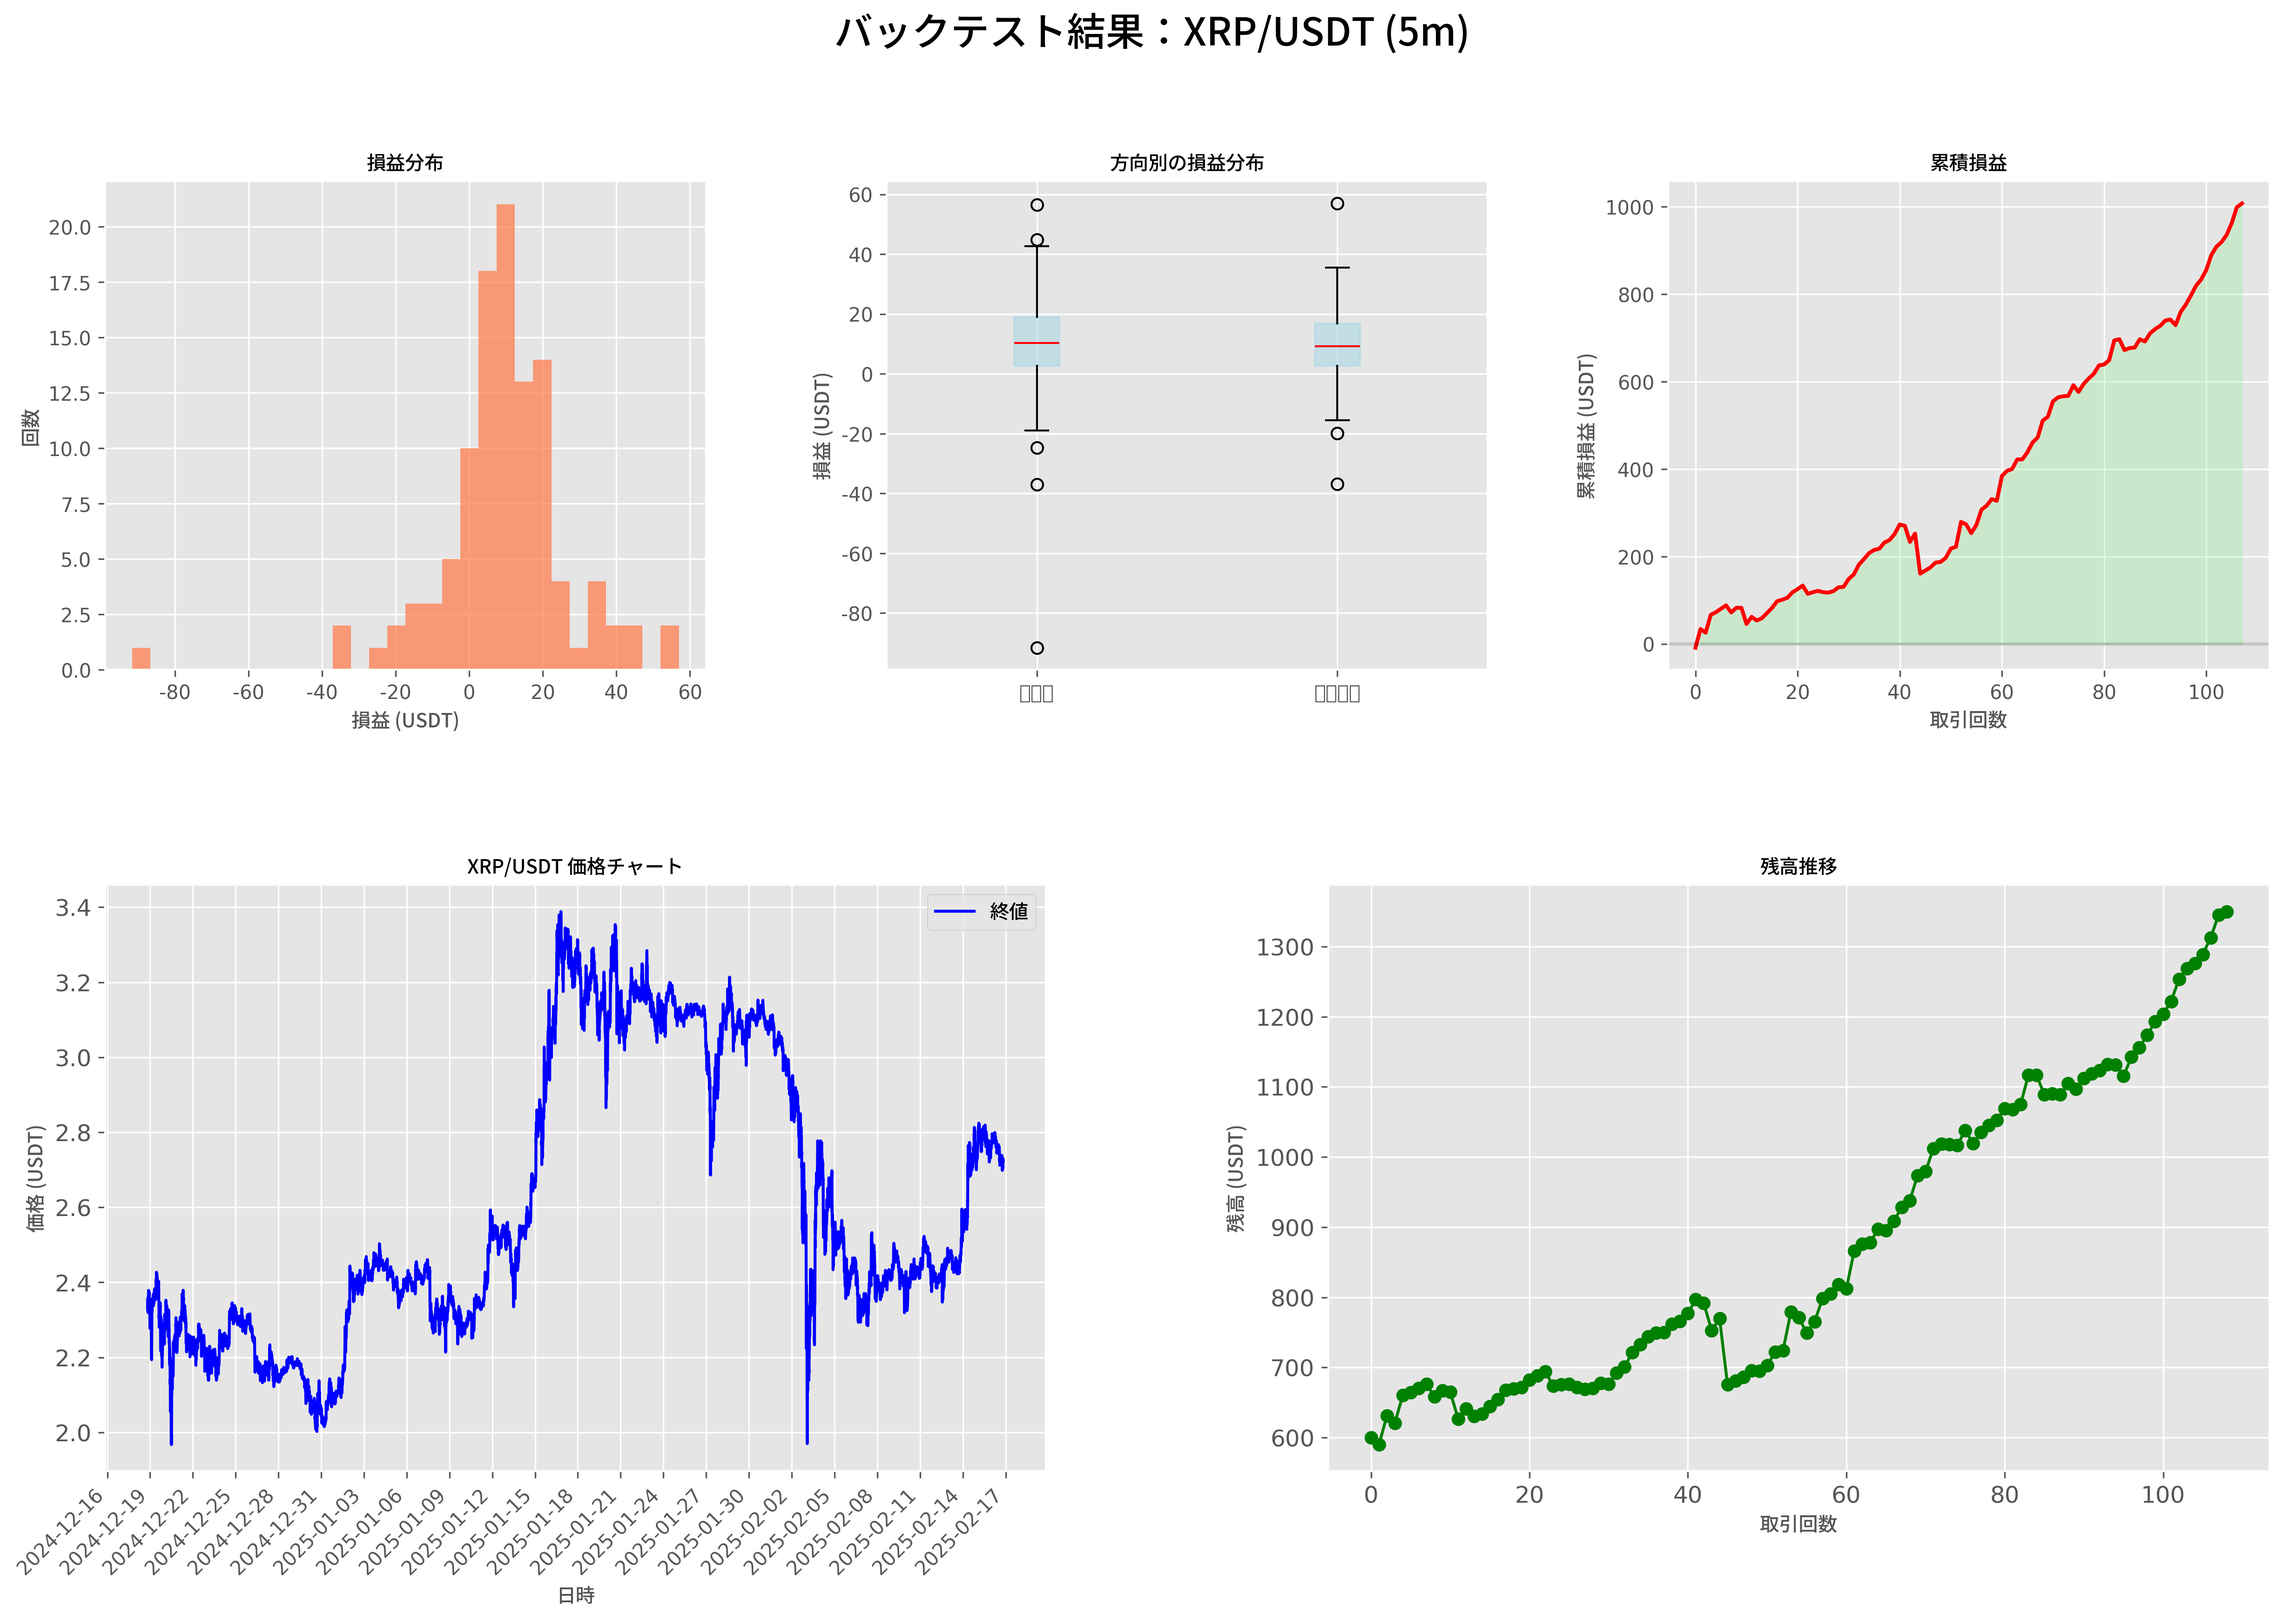
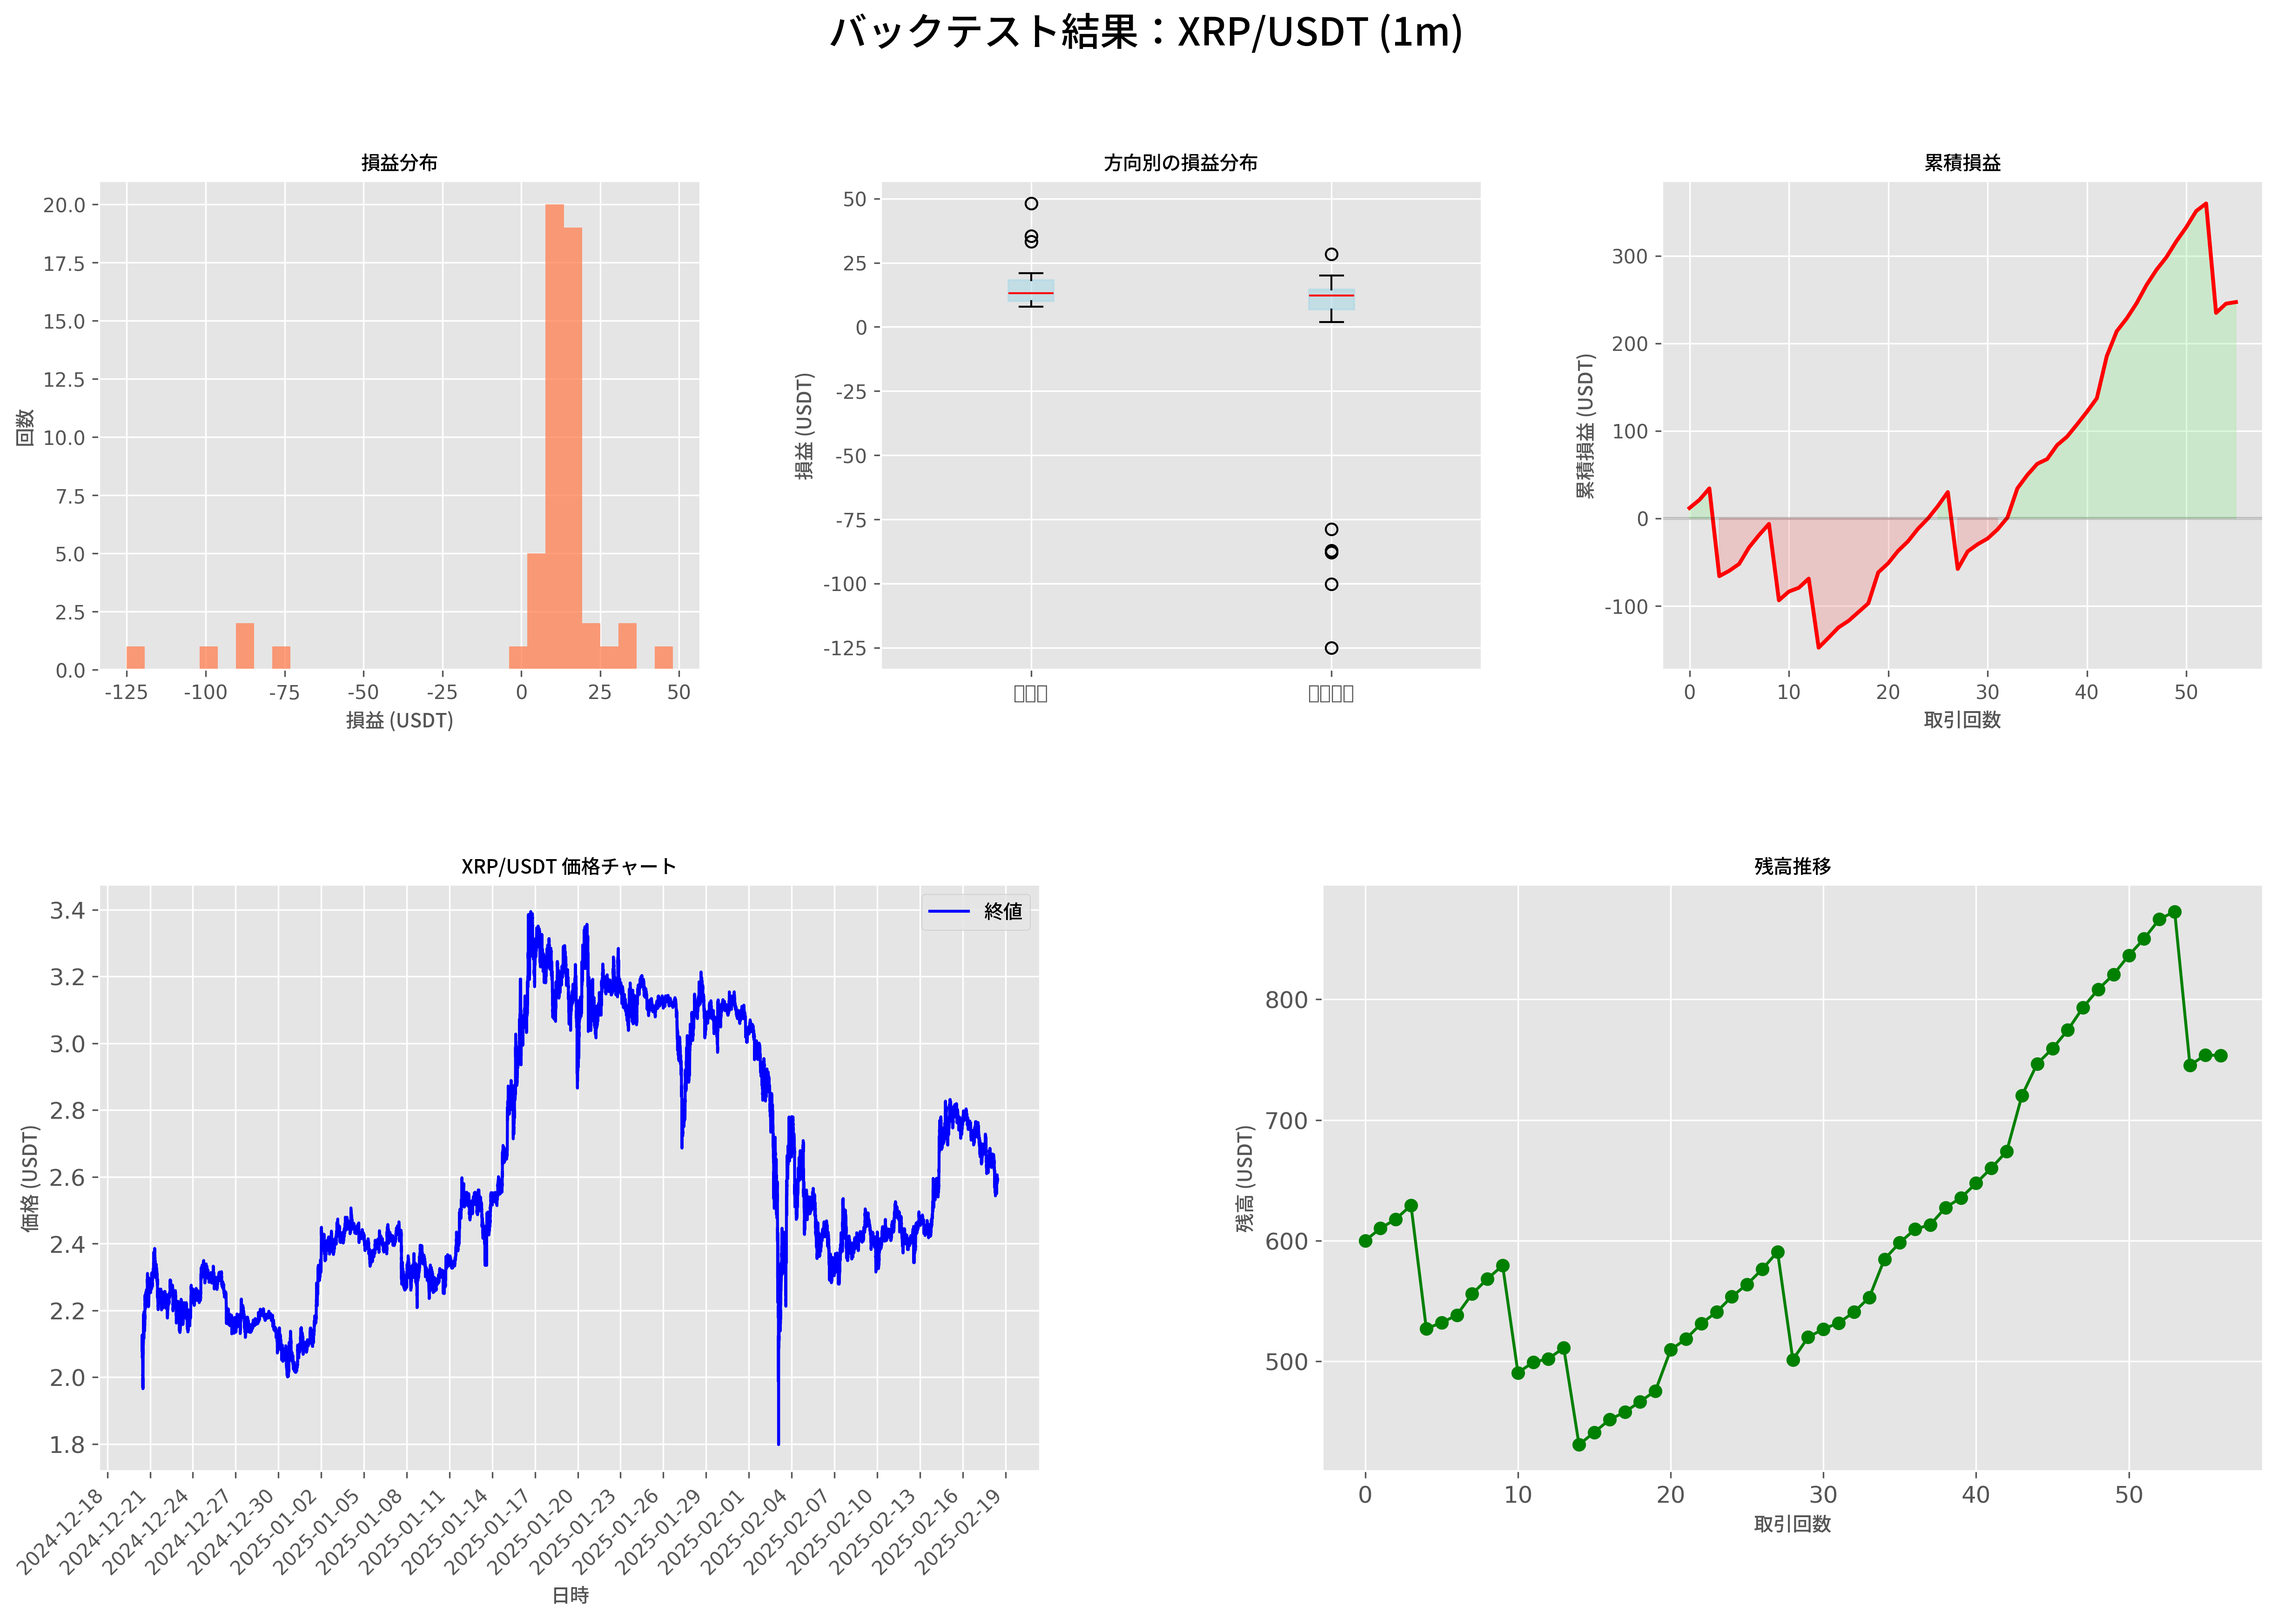
Update backtesting code
update: SL対応

diff --git a/src/backtest/main.py b/src/backtest/main.py
@@ -34,7 +34,6 @@ class BacktestConfig:
     rsi_overbought: float = 70.0
     rsi_oversold: float = 30.0
     tp_percent: float = 0.3
-    # SL（ストップロス）のパラメータ（現状は未実装ですが、後から利用可能）
     sl_percent: Optional[float] = None  
     maker_fee: float = 0.0002
     taker_fee: float = 0.00055
@@ -49,8 +48,7 @@ class Position:
     size: float
     entry_time: datetime
     tp_price: float
-    # 将来的にSL価格を保持する場合はこちらを利用
-    # sl_price: Optional[float] = None
+    sl_price: Optional[float] = None
 
 
 @dataclass
@@ -139,13 +137,19 @@ class ScalpingStrategy:
 
     def should_close_position(self, position: Position, row: pd.Series) -> Tuple[bool, str]:
         """
-        TP(テイクプロフィット)条件をチェックする。
-        ※ 現状はTPのみでexit(SLは未実装)
+        TP/SLの条件をチェック
+        ※ 同一ローソク足内でTPとSLが両方触れた場合は、保守的にSLを優先する。
         """
-        if position.direction == 'long' and row['high'] >= position.tp_price:
-            return True, 'TP'
-        elif position.direction == 'short' and row['low'] <= position.tp_price:
-            return True, 'TP'
+        if position.direction == 'long':
+            if position.sl_price is not None and row['low'] <= position.sl_price:
+                return True, 'SL'
+            elif row['high'] >= position.tp_price:
+                return True, 'TP'
+        elif position.direction == 'short':
+            if position.sl_price is not None and row['high'] >= position.sl_price:
+                return True, 'SL'
+            elif row['low'] <= position.tp_price:
+                return True, 'TP'
         return False, ''
 
 
@@ -198,12 +202,19 @@ class PortfolioManager:
         tp_price = price * (1 + self.config.tp_percent/100) if direction == 'long' \
                    else price * (1 - self.config.tp_percent/100)
         
+        if self.config.sl_percent is not None:
+            sl_price = price * (1 - self.config.sl_percent/100) if direction == 'long' \
+                       else price * (1 + self.config.sl_percent/100)
+        else:
+            sl_price = None
+        
         self._position = Position(
             direction=direction,
             entry_price=price,
             size=position_size,
             entry_time=row.name,
-            tp_price=tp_price
+            tp_price=tp_price,
+            sl_price=sl_price
         )
         
         self._current_balance -= fee
@@ -247,7 +258,7 @@ class PortfolioManager:
 class BacktestAnalyzer:
     """
     バックテスト結果の分析・可視化および結果保存を行うクラス
-    ※ 取得済みのOHLCVデータ(price_data)も利用
+    ※取得済みのOHLCVデータ(price_data)も利用
     """
     def __init__(self, config: BacktestConfig, portfolio: PortfolioManager, price_data: pd.DataFrame):
         self.config = config
@@ -524,7 +535,7 @@ def run_backtest(
     rsi_overbought: float = 70.0,
     rsi_oversold: float = 30.0,
     tp_percent: float = 0.3,
-    # SLパラメータ（現状は未使用）
+    # SLパラメータ。Noneの場合はSLは利用しない。
     sl_percent: Optional[float] = None,
     days: int = 30
 ) -> None:
@@ -558,20 +569,18 @@ def run_backtest(
 def main():
     params = {
         'symbol': "XRP/USDT",
-        'timeframe': "5m",
+        'timeframe': "1m",
         'initial_balance': 600.0,
         'leverage': 5,
         'rsi_period': 14,
-        'rsi_overbought': 70.0,
-        'rsi_oversold': 30.0,
+        'rsi_overbought': 85.0,
+        'rsi_oversold': 15.0,
         'tp_percent': 0.3,
-        # SL現状未実装なため、パラメータとして渡せるようにしておく（例：1.0%）
-        'sl_percent': None,
+        'sl_percent': 3.0, #含まない場合はNoneとする
         'days': 60
     }
     
     run_backtest(**params)
-
 
 if __name__ == "__main__":
     main()
